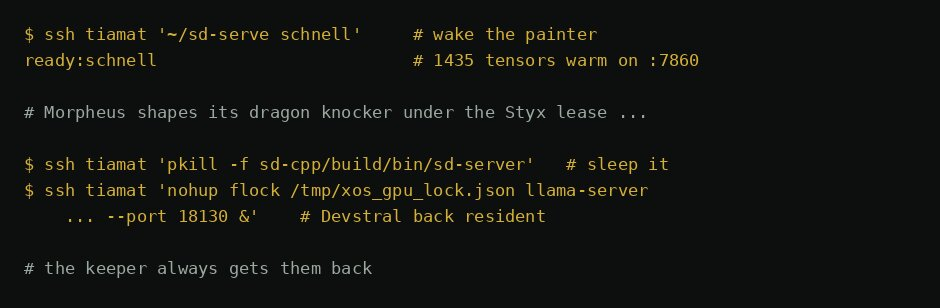
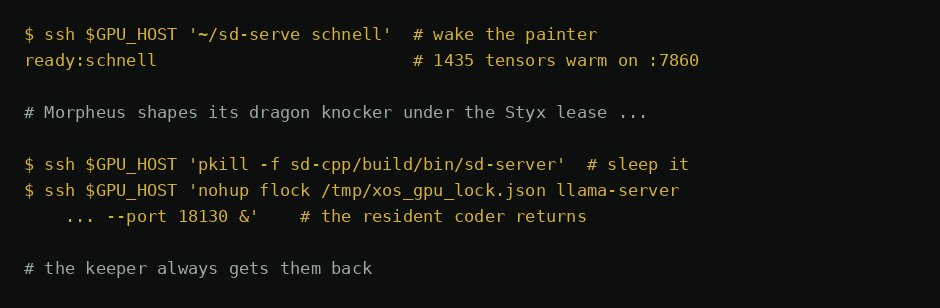
pages: machine names scrubbed from manuals and terminal shots
Claude-Session: https://claude.ai/code/session_01LAuJKmqubES9xr9uFc7LAf

Changed region(s): [[0.0926, 0.4968, 0.7404, 0.7305], [0.0926, 0.0877, 0.4011, 0.1461]]

diff --git a/m/morpheus.html b/m/morpheus.html
@@ -62,11 +62,10 @@ shapes images out of nothing; so does this. Kin in the pantheon:</p>
 <ul>
 <li><strong>Galatea</strong> — reserved for the video layer (still →
 motion), later.</li>
-<li><strong>HADES</strong> — the Tiamat-side resident-model keeper
-(<code>tools/sd-serve.sh</code>, deployed as
-<code>tiamat:~/sd-serve</code>). Decides which giant is awake in the
-vault; everything else sleeps until called. Command name stays
-<code>sd-serve</code>.</li>
+<li><strong>HADES</strong> — the GPU-host resident-model keeper
+(<code>tools/sd-serve.sh</code>, deployed as <code>~/sd-serve</code> on
+that host). Decides which giant is awake in the vault; everything else
+sleeps until called. Command name stays <code>sd-serve</code>.</li>
 </ul></div>
 <p class="tagline">Image generation on your own iron. No queue, no account.</p>
 <div class="shots-head">IN ACTION</div>
@@ -80,12 +79,12 @@ Business.</p>
 <div class="sourceCode" id="cb1"><pre
 class="sourceCode bash"><code class="sourceCode bash"><span id="cb1-1"><a href="#cb1-1" aria-hidden="true" tabindex="-1"></a><span class="bu">cd</span> ~/XOS/Morpheus <span class="kw">&amp;&amp;</span> <span class="ex">cargo</span> run <span class="at">--release</span></span></code></pre></div>
 <ol type="1">
-<li>Window opens on the workstation (Locutous holds the screen — nothing
-renders here).</li>
+<li>Window opens on your workstation (the screen box — nothing renders
+here).</li>
 <li>Type a prompt in the text box. Press <strong>Shape</strong> (or
 Enter).</li>
 <li>Status reads
-<code>shaping with &lt;model&gt; on Tiamat… (holds the GPU lease)</code>.
+<code>shaping with &lt;model&gt; on the GPU host… (holds the GPU lease)</code>.
 Schnell lands in ~35s warm; first render after a cold keeper pays the
 model load.</li>
 <li>The render fills the <strong>canvas</strong> and joins the
@@ -95,8 +94,8 @@ full-res PNG to an editor; <strong>swap</strong> cycles to the next
 installed editor. <strong>Fit to monitor</strong> opens a monitor-sized
 copy.</li>
 </ol>
-<p>All GPU work runs remotely on Tiamat. The PNG comes back over the
-shared Hydra NFS mount — same path on every node.</p>
+<p>All GPU work runs remotely on the GPU host. The PNG comes back over a
+shared NFS mount — same path on every node.</p>
 <h2 id="what-it-is">What it is</h2>
 <p>A standalone Rust app (fyrox window + the <code>image</code> crate,
 Kish-style — its own repo, not a Leviathan module). It is the image half
@@ -120,18 +119,17 @@ by design).</li>
 </ul></li>
 <li><strong>Two execution paths</strong> — resident models POST the
 <strong>A1111 API</strong>
-(<code>http://tiamat:7860/sdapi/v1/txt2img</code>) to the sd-server
+(<code>http://$GPU_HOST:7860/sdapi/v1/txt2img</code>) to the sd-server
 HADES holds warm with <code>--eager-load</code> (~35s/render, no
 per-render reload). Non-resident models run one-shot via
-<code>ssh tiamat '~/sd-serve --cli &lt;key&gt; &lt;out&gt;'</code>,
+<code>ssh $GPU_HOST '~/sd-serve --cli &lt;key&gt; &lt;out&gt;'</code>,
 prompt piped over stdin so no shell quoting can bite.</li>
 <li><strong>GPU lease</strong> — every render runs under
 <code>flock</code> on the Styx lease
 (<code>/tmp/xos_gpu_lock.json</code>), serializing politely against the
 LLM lanes.</li>
-<li><strong>Shared NFS</strong> — weights on
-<code>/mnt/hydra/models/image/</code>, renders land in
-<code>/mnt/hydra/models/image/_out/</code> (readable from every
+<li><strong>Shared NFS</strong> — weights on the shared models mount,
+renders land in its <code>_out/</code> directory (readable from every
 node).</li>
 <li><strong>Open in…</strong> — hands the current render to
 gimp/krita/inkscape/gthumb/eog/ feh/nomacs; first installed wins,
@@ -154,7 +152,7 @@ the fleet; override only for a packaged install or a renamed host.</li>
 <tbody>
 <tr class="odd">
 <td><code>MORPHEUS_TIAMAT</code></td>
-<td><code>tiamat</code></td>
+<td>(your GPU host)</td>
 <td>GPU host to ssh/POST</td>
 </tr>
 <tr class="even">
@@ -164,7 +162,7 @@ the fleet; override only for a packaged install or a renamed host.</li>
 </tr>
 <tr class="odd">
 <td><code>MORPHEUS_OUT_DIR</code></td>
-<td><code>/mnt/hydra/models/image/_out</code></td>
+<td>(shared NFS <code>_out/</code>)</td>
 <td>where renders land</td>
 </tr>
 <tr class="even">
@@ -187,8 +185,8 @@ for both paths.</p>
 <li><strong>Render</strong>: pick a model, type, Shape. Status line
 tells you what's happening; there's no progress bar yet — "shaping…"
 then the image lands.</li>
-<li><strong>Cold start</strong>: first render after Tiamat reboot or a
-model switch blocks while HADES loads the model
+<li><strong>Cold start</strong>: first render after a GPU-host reboot or
+a model switch blocks while HADES loads the model
 (<code>~/sd-serve &lt;key&gt;</code> is idempotent — a no-op if that
 model is already resident, otherwise it kills the old server, starts the
 new one, and waits for "listening on" or fails loud).</li>
@@ -201,10 +199,10 @@ back, Open/Fit act on it.</li>
 </ul>
 <h2 id="how-it-connects">How it connects</h2>
 <pre><code>Morpheus (workstation window)
-  ├─ ssh tiamat ~/sd-serve &lt;key&gt;      HADES: make the model resident (no-op if warm)
+  ├─ ssh $GPU_HOST ~/sd-serve &lt;key&gt;   HADES: make the model resident (no-op if warm)
   ├─ flock &lt;styx lease&gt; curl :7860    A1111 txt2img under the GPU lease
   │     └─ sd-server --eager-load     one giant awake at a time
-  └─ /mnt/hydra/.../_out/*.png        render back over shared NFS</code></pre>
+  └─ &lt;shared NFS&gt;/_out/*.png          render back over shared NFS</code></pre>
 <p>One GPU, many claimants: Morpheus competes politely with the LLM
 lanes (nemotron, Devstral) through the same Styx flock — the lease is
 truth, never the label file. HADES enforces "one model resident" on the
@@ -219,11 +217,11 @@ the next small add.</li>
 <li><strong>FLUX.2 dev is slow one-shot by design</strong> — its ~266s
 <code>--offload-to-cpu</code> first step outlasts the A1111 HTTP socket,
 so it can't ride the resident path.</li>
-<li><strong>Cold-keeper tax</strong> — first render after a Tiamat
+<li><strong>Cold-keeper tax</strong> — first render after a GPU-host
 reboot or model switch pays the full NFS model load. HADES persistence
 is nohup-level: survives renders and SSH disconnects, not a reboot
 (systemd user unit is the follow-up, off-by-default like
-<code>llama-server</code> — Tiamat boots quiet by design).</li>
+<code>llama-server</code> — the host boots quiet by design).</li>
 <li><strong>No negative prompt, no seed control</strong> — seed is
 <code>-1</code> (random) today.</li>
 <li><strong>No progress bar</strong> — status text only.</li>
@@ -239,7 +237,7 @@ fix.</li>
 <li>Progress feedback during long shapes.</li>
 <li>systemd user unit for HADES (boot/crash restart, off by
 default).</li>
-<li>Pooled-VRAM path (<code>--rpc</code> to Tiamat) for bigger
+<li>Pooled-VRAM path (<code>--rpc</code> to the GPU host) for bigger
 models.</li>
 <li><strong>Galatea</strong> — sd-cli has <code>-M vid_gen</code>; the
 still→motion layer.</li>

diff --git a/m/styx.html b/m/styx.html
@@ -59,7 +59,7 @@
 <h1 class="mname">STYX</h1>
 <div class="lore"><p>The Styx is the river every soul must cross one at a time, and an
 oath sworn on it binds even a god. The GPU lease is that oath: while one
-holder has it, nobody else crosses. All GPU work on Tiamat serializes
+holder has it, nobody else crosses. All GPU work on the host serializes
 through this one crossing.</p>
 <p>The canonical lock file is
 <code>DEFAULT_LOCK_FILE = /tmp/xos_gpu_lock.json</code> (override:
@@ -85,7 +85,7 @@ the GPU, held for as long as the value lives:</p>
 class="sourceCode rust"><code class="sourceCode rust"><span id="cb2-1"><a href="#cb2-1" aria-hidden="true" tabindex="-1"></a><span class="kw">use</span> <span class="pp">styx::</span><span class="op">{</span>Endpoint<span class="op">,</span> Lease<span class="op">,</span> ensure_model<span class="op">,</span> run<span class="op">};</span></span>
 <span id="cb2-2"><a href="#cb2-2" aria-hidden="true" tabindex="-1"></a></span>
 <span id="cb2-3"><a href="#cb2-3" aria-hidden="true" tabindex="-1"></a><span class="kw">let</span> lease <span class="op">=</span> <span class="pp">Lease::</span>acquire(<span class="st">&quot;hephaestus&quot;</span>)<span class="op">?;</span>     <span class="co">// flock, non-blocking: busy = Err</span></span>
-<span id="cb2-4"><a href="#cb2-4" aria-hidden="true" tabindex="-1"></a><span class="kw">let</span> ep <span class="op">=</span> <span class="pp">Endpoint::</span><span class="kw">default</span>()<span class="op">;</span>                  <span class="co">// Nemotron shim on 10.0.0.2:18205</span></span>
+<span id="cb2-4"><a href="#cb2-4" aria-hidden="true" tabindex="-1"></a><span class="kw">let</span> ep <span class="op">=</span> <span class="pp">Endpoint::</span><span class="kw">default</span>()<span class="op">;</span>                  <span class="co">// Nemotron shim on the GPU host</span></span>
 <span id="cb2-5"><a href="#cb2-5" aria-hidden="true" tabindex="-1"></a>ensure_model(<span class="op">&amp;</span>ep<span class="op">,</span> <span class="op">&amp;</span>lease)<span class="op">?;</span>                    <span class="co">// wake a cold model, wait it out</span></span>
 <span id="cb2-6"><a href="#cb2-6" aria-hidden="true" tabindex="-1"></a><span class="kw">let</span> answer <span class="op">=</span> run(<span class="op">&amp;</span>ep<span class="op">,</span> <span class="st">&quot;prompt&quot;</span><span class="op">,</span> <span class="cn">Some</span>(<span class="op">&amp;</span>lease))<span class="op">?;</span> <span class="co">// one completion under the lease</span></span>
 <span id="cb2-7"><a href="#cb2-7" aria-hidden="true" tabindex="-1"></a><span class="co">// drop(lease) → the kernel releases the lock</span></span></code></pre></div>

diff --git a/m/kish.html b/m/kish.html
@@ -75,7 +75,7 @@ the writer is <strong>Thoth</strong>, image styles are
 <div class="sourceCode" id="cb1"><pre
 class="sourceCode bash"><code class="sourceCode bash"><span id="cb1-1"><a href="#cb1-1" aria-hidden="true" tabindex="-1"></a><span class="bu">cd</span> ~/XOS/Kish</span>
 <span id="cb1-2"><a href="#cb1-2" aria-hidden="true" tabindex="-1"></a><span class="ex">cargo</span> build <span class="at">--release</span></span>
-<span id="cb1-3"><a href="#cb1-3" aria-hidden="true" tabindex="-1"></a><span class="ex">./target/release/kish</span> ping orchestrate        <span class="co"># prove the Tiamat seam answers</span></span>
+<span id="cb1-3"><a href="#cb1-3" aria-hidden="true" tabindex="-1"></a><span class="ex">./target/release/kish</span> ping orchestrate        <span class="co"># prove the LLM seam answers</span></span>
 <span id="cb1-4"><a href="#cb1-4" aria-hidden="true" tabindex="-1"></a><span class="ex">./target/release/kish</span> dub mynotes             <span class="co"># create a notebook (a &quot;Dub&quot;)</span></span>
 <span id="cb1-5"><a href="#cb1-5" aria-hidden="true" tabindex="-1"></a><span class="ex">./target/release/kish</span> ingest mynotes doc.pdf  <span class="co"># extract + chunk + embed</span></span>
 <span id="cb1-6"><a href="#cb1-6" aria-hidden="true" tabindex="-1"></a><span class="ex">./target/release/kish</span> doctor mynotes          <span class="co"># audit what actually indexed</span></span>
@@ -157,7 +157,8 @@ endpoints only:</p>
 <tbody>
 <tr class="odd">
 <td>orchestrate</td>
-<td><code>http://10.0.0.2:18205/v1</code> (Tiamat nemotron3 shim)</td>
+<td><code>http://$GPU_HOST:18205/v1</code> (the GPU host's nemotron3
+shim)</td>
 <td><code>nemotron3</code></td>
 </tr>
 <tr class="even">
@@ -168,7 +169,7 @@ alternates)</td>
 </tr>
 <tr class="odd">
 <td>embed</td>
-<td><code>http://127.0.0.1:18110/v1</code> (Locutous CPU,
+<td><code>http://127.0.0.1:18110/v1</code> (local CPU,
 <code>llama-server@kish-embed</code>)</td>
 <td><code>nomic-embed-text</code> (v1.5, Apache-2.0)</td>
 </tr>
@@ -181,8 +182,8 @@ shim. A per-Dub override replaces the WHOLE alias
 artifacts (Kish = the report half of "image+report for release");
 <strong>Oannes</strong> is the shop-floor advisor sibling. Folio
 painting shells to
-<code>Eidolon-Forge/python/eidolon_chat_pipeline.py</code> (Tiamat GPU,
-one lease per batch).</p>
+<code>Eidolon-Forge/python/eidolon_chat_pipeline.py</code> (GPU-host
+GPU, one lease per batch).</p>
 <h2 id="known-limits">Known limits</h2>
 <ul>
 <li>Embed endpoint down ⇒ ingest/ask/report dead. Chat lane cold-starts

diff --git a/m/tiamat.html b/m/tiamat.html
@@ -60,8 +60,8 @@
 <div class="lore"><p>Tiamat: the Babylonian primordial dragon-mother of the salt sea, from
 whose divided body the world was made. The host from which every module
 springs — the suite's motto is "putting chaos to work," and this is the
-chaos with a menu on it. The machine named Tiamat (the Strix Halo box)
-shares the name deliberately; see How it connects.</p></div>
+chaos with a menu on it. The machine named your GPU host can share the
+name in spirit; see How it connects.</p></div>
 <p class="tagline">The host. Every tool on one board — putting chaos to work.</p>
 <div class="shots-head">IN ACTION</div>
 <div class="shots"><figure><img src="shots/tiamat-board.jpg" alt="the board — every module, probed live" loading="lazy"><figcaption>the board — every module, probed live</figcaption></figure></div>
@@ -149,16 +149,16 @@ processes).</li>
 <ul>
 <li>.ctb viewer — ex-Daedalus, ex-Nazca), and the maker's slicer. It
 probes but does not launch <strong>GilgaMESH</strong> (trellis-server on
-10.0.0.2:8080) and the linked crates <strong>Chimaera</strong> /
+the GPU host, :8080) and the linked crates <strong>Chimaera</strong> /
 <strong>Styx</strong> / <strong>Dido</strong>.</li>
 </ul>
 <p>Module vs machine: the <em>module</em> Tiamat is this launcher
-window; the <em>machine</em> Tiamat is the Strix Halo box (10.0.0.2, 128
-GB unified) that hosts the LLM and image lanes under the Styx flock
-lease and the HADES keeper. The shared name is deliberate — the box is
-the mother the compute springs from, the window is the mother the tools
-spring from. When a row probes a TCP port on 10.0.0.2, the module is
-asking the machine.</p>
+window; the <em>machine</em> is whatever GPU host (a
+large-unified-memory box) hosts the LLM and image lanes under the Styx
+flock lease and the HADES keeper. The shared name is deliberate — the
+box is the mother the compute springs from, the window is the mother the
+tools spring from. When a row probes a TCP port on the GPU host, the
+module is asking the machine.</p>
 <h2 id="known-limits">Known limits</h2>
 <ul>
 <li><strong>Jove probe/handler mismatch</strong>: the registry row

diff --git a/m/vitruvius.html b/m/vitruvius.html
@@ -157,9 +157,9 @@ SPEC build mode (≤2 clarifying questions → parameter sheet →
 quantities against the compiled program, and a VLM judge that renders
 the part and rules on shape class (advisory; JUDGE FAIL triggers one
 repair round). <strong>Honest note:</strong> the AI lane needs a
-configured LLM endpoint (<code>SIG_LLM_URL</code>, default the Tiamat
-nemotron shim) and its reliability work is still open — the AI-assist
-claim is deliberately OFF the public page until it holds.</li>
+configured LLM endpoint (<code>SIG_LLM_URL</code>, default the GPU
+host's nemotron shim) and its reliability work is still open — the
+AI-assist claim is deliberately OFF the public page until it holds.</li>
 <li><strong>Backdrops</strong> — SHOP / HILLS / SPACE skydome
 wallpapers, BG LEVEL trim.</li>
 <li><strong>SpaceMouse</strong> — direct hidraw driver (no daemon), full
@@ -240,11 +240,11 @@ input.</li>
 <code>~/XOS/.timeline-events.jsonl</code> for the operator surface's
 timeline dots.</li>
 <li><strong>LLM endpoints</strong> — CO-OP posts to
-<code>SIG_LLM_URL</code> (default the Tiamat nemotron shim
-<code>http://10.0.0.2:18205</code>); the judge renders via local
+<code>SIG_LLM_URL</code> (default the GPU host's nemotron shim
+<code>http://$GPU_HOST:18205</code>); the judge renders via local
 <code>openscad</code> and asks a VLM endpoint. Vitruvius calls over HTTP
-and holds no GPU itself — Tiamat-side GPU serialization is the Styx
-lease, owned by whatever runs the model server.</li>
+and holds no GPU itself — host-side GPU serialization is the Styx lease,
+owned by whatever runs the model server.</li>
 </ul>
 <h2 id="env-knobs">Env knobs</h2>
 <p>Env is launch-time trim; the NAV panel / nav.json is the durable home
@@ -328,7 +328,7 @@ for feel.</p>
 </tr>
 <tr class="even">
 <td><code>SIG_LLM_URL</code></td>
-<td><code>http://10.0.0.2:18205</code></td>
+<td><code>http://$GPU_HOST:18205</code></td>
 <td>CO-OP LLM endpoint</td>
 </tr>
 <tr class="odd">

diff --git a/m/gilgamesh.html b/m/gilgamesh.html
@@ -82,16 +82,16 @@ watertight. Photo in, solid out.</p>
 <h2 id="features">Features</h2>
 <ul>
 <li><strong>The chain</strong>: [FLUX paints, words-mode only] -&gt;
-trellis-server (Vulkan trellis.cpp, Tiamat :8080) -&gt; textured GLB
--&gt; <code>trellis_to_stl.py</code> scales to height -&gt; Blender
-voxel remesh -&gt; watertight STL.</li>
+trellis-server (Vulkan trellis.cpp on the GPU host, :8080) -&gt;
+textured GLB -&gt; <code>trellis_to_stl.py</code> scales to height -&gt;
+Blender voxel remesh -&gt; watertight STL.</li>
 <li><strong>Words mode</strong>: no file at arg 1 means it's a prompt;
 FLUX paints a single centered object on a plain background first (draft,
 no upscale — the mesh model resamples anyway).</li>
 <li><strong>HEIGHT_MM</strong>: second arg, default 80. Sets the tallest
 dimension of the final STL.</li>
-<li><strong>TRELLIS_HOST</strong>: env var, default
-<code>10.0.0.2</code>. Point it elsewhere if the server moves.</li>
+<li><strong>TRELLIS_HOST</strong>: env var — your GPU host. Point it
+wherever the server moves.</li>
 <li><strong>Output</strong>: <code>NAME.glb</code> (textured mesh),
 <code>NAME.stl</code> (raw at height), <code>NAME-watertight.stl</code>
 (sliceable) — all in <code>~/Desktop/bezier/</code>.</li>
@@ -116,9 +116,8 @@ died. Deployed copy is <code>~/bin/trellis-make</code>; keep it in sync
 with the repo copy.</p>
 <h2 id="how-it-connects">How it connects</h2>
 <ul>
-<li><strong>GPU work</strong> runs on the Tiamat host under the Styx
-flock lease, beside the HADES-kept models — no collisions, no
-evictions.</li>
+<li><strong>GPU work</strong> runs on the GPU host under the Styx flock
+lease, beside the HADES-kept models — no collisions, no evictions.</li>
 <li><strong>Downstream</strong>: the watertight STL feeds Jove (resin
 prep) and Hephaestus (CAM); the GLB views in Labyrinth.</li>
 <li><strong>Words mode</strong> shares Morpheus's FLUX model stack — one

diff --git a/m/oannes.html b/m/oannes.html
@@ -152,10 +152,10 @@ characters.</li>
 </ul>
 <h2 id="how-it-connects">How it connects</h2>
 <ul>
-<li>Generation runs on Tiamat: the engine defaults to the nemotron shim
-at <code>:18205</code> (<code>CNC_NEMOTRON_SHIM_BASE</code>); Devstral
-is proven for the G-code review lane, nemotron holds the advisor
-feeds/speeds lane. Residency is the HADES keeper's business —
+<li>Generation runs on the GPU host: the engine defaults to the nemotron
+shim at <code>:18205</code> (<code>CNC_NEMOTRON_SHIM_BASE</code>);
+Devstral is proven for the G-code review lane, nemotron holds the
+advisor feeds/speeds lane. Residency is the HADES keeper's business —
 last-loaded model stays warm.</li>
 <li>All GPU calls go through the Styx lease: <code>flock</code> on
 <code>/tmp/xos_gpu_lock.json</code> (the CLI, the window's worker

diff --git a/m/iris.html b/m/iris.html
@@ -207,8 +207,8 @@ pierced-and-led-in plasma G-code out.</li>
 Tia's OpenAI-compatible llama-server ports in order :18140 (gemma
 preferred), :18205, :18130, :18120, :18102, :18103 and uses the first
 warm one. Nothing warm = loud error, exit 1. The window sets
-<code>IRIS_CHAT_HOST=10.0.0.2</code>; CLI defaults to localhost (Iris is
-Tia-resident in deployment).</li>
+<code>IRIS_CHAT_HOST</code> to the GPU host; CLI defaults to localhost
+(Iris is Tia-resident in deployment).</li>
 <li><strong>Styx lease</strong> — chat rides whatever resident server
 already holds the GPU; it never takes the lease itself. Any GPU job you
 run around Iris goes through

diff --git a/m/jove.html b/m/jove.html
@@ -230,8 +230,8 @@ Ouranos — anything that emits a watertight STL.</li>
 in <strong>Labyrinth</strong> (the viewer, ex-Daedalus) before
 committing resin — note Labyrinth's encrypted-ctb decode is a known open
 bug on its side.</li>
-<li><strong>Tiamat</strong> (the suite host window) probes for and
-launches <code>jove-prep</code>.</li>
+<li><strong>TIAMAT</strong> (the suite board) probes for and launches
+<code>jove-prep</code>.</li>
 <li>The <code>ctb_writer</code> lib is a clean crate boundary: any
 caller that can produce a raw mask stack and run a process can write a
 <code>.ctb</code> — that is the whole contract.</li>

diff --git a/m/labyrinth.html b/m/labyrinth.html
@@ -160,9 +160,9 @@ bed, not here.</li>
 <li><strong>Jove</strong> — <code>.ctb</code> files;
 <code>parse.rs</code> decodes the exact inverse of Jove's preview
 encoder.</li>
-<li><strong>Tiamat launcher</strong> probes and launches Labyrinth like
-the rest of the suite. Window title: "Labyrinth — Leviathan Design
-Suite".</li>
+<li><strong>TIAMAT</strong> (the suite board) probes and launches
+Labyrinth like the rest of the suite. Window title: "Labyrinth —
+Leviathan Design Suite".</li>
 </ul>
 <h2 id="known-limits">Known limits</h2>
 <p>A viewer that misdecodes is worse than no viewer — you'd trust a
